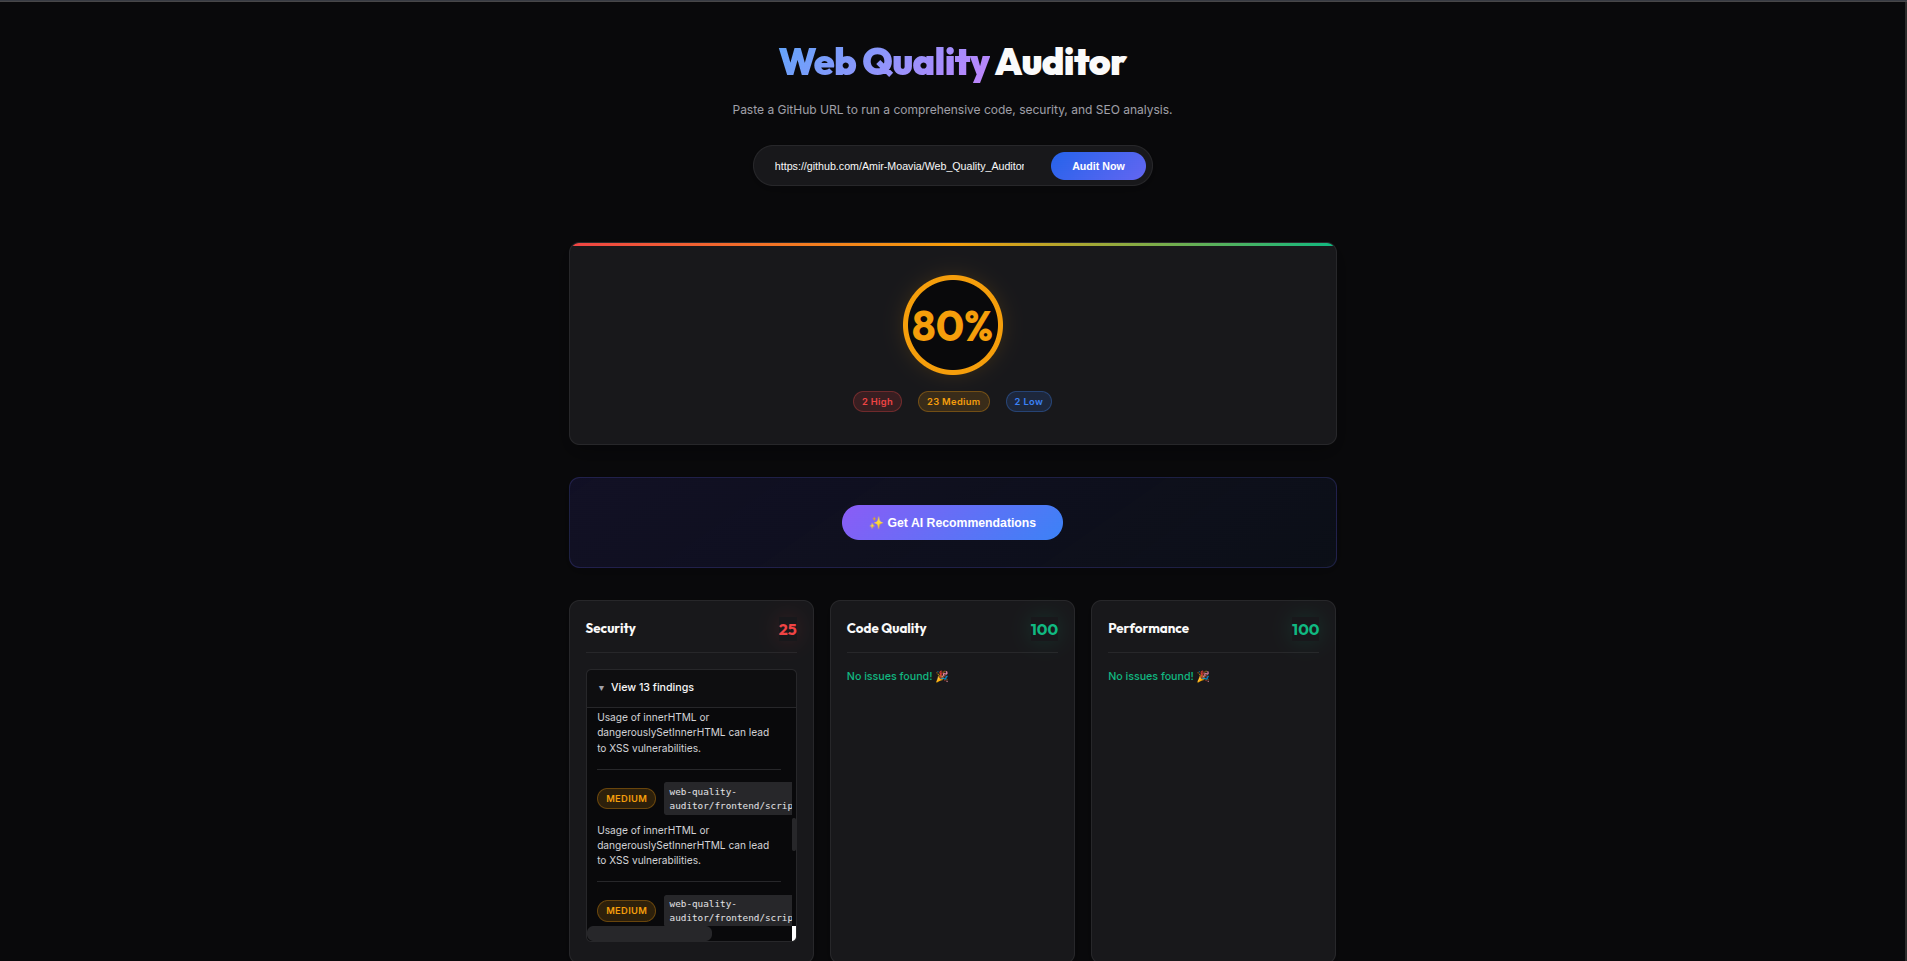
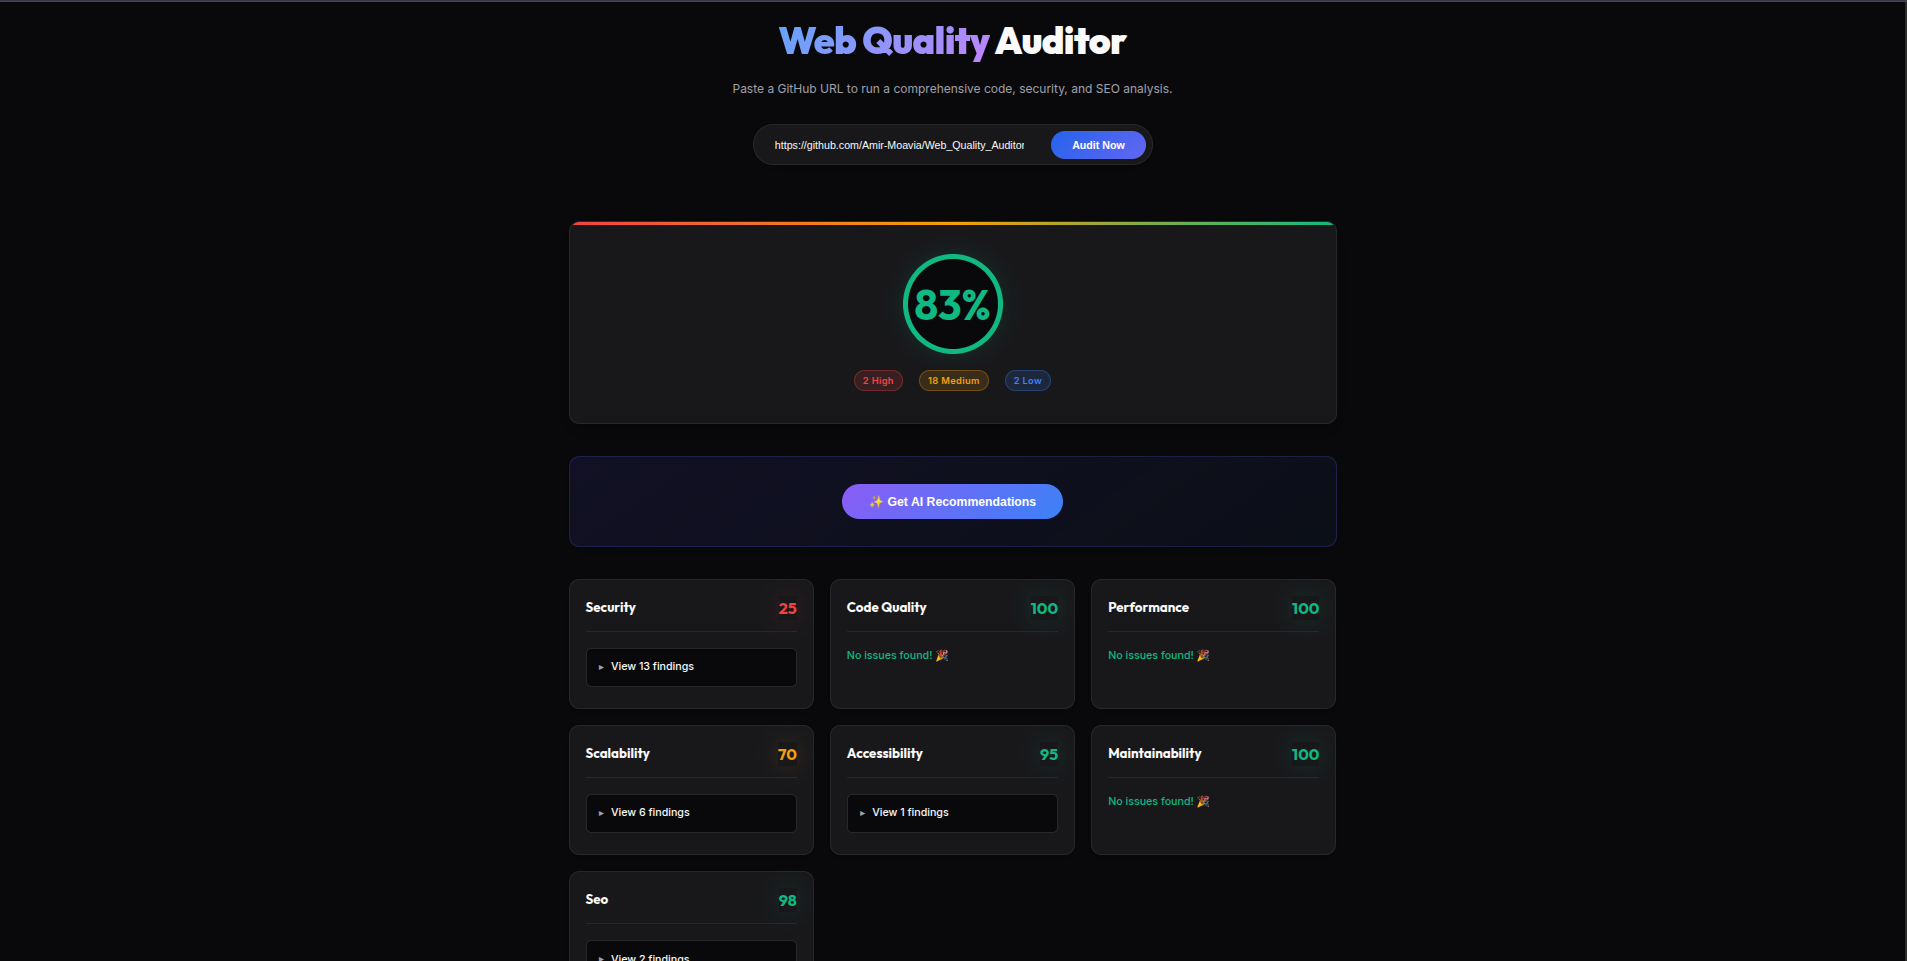
docs: add dashboard and AI screenshots to README

diff --git a/README.md b/README.md
@@ -23,6 +23,12 @@ Paste any public GitHub URL → get an instant deep audit across 7 quality dimen
 
 *Analyzing a GitHub repository — showing overall score, severity breakdown, and category-level findings*
 
+<br>
+
+<img src="assets/dashboard-preview2.png" alt="AI Top Priorities - Gemini Recommendations" width="800">
+
+*Gemini AI identifies and ranks the top 5 most critical issues to fix first*
+
 </div>
 
 ---